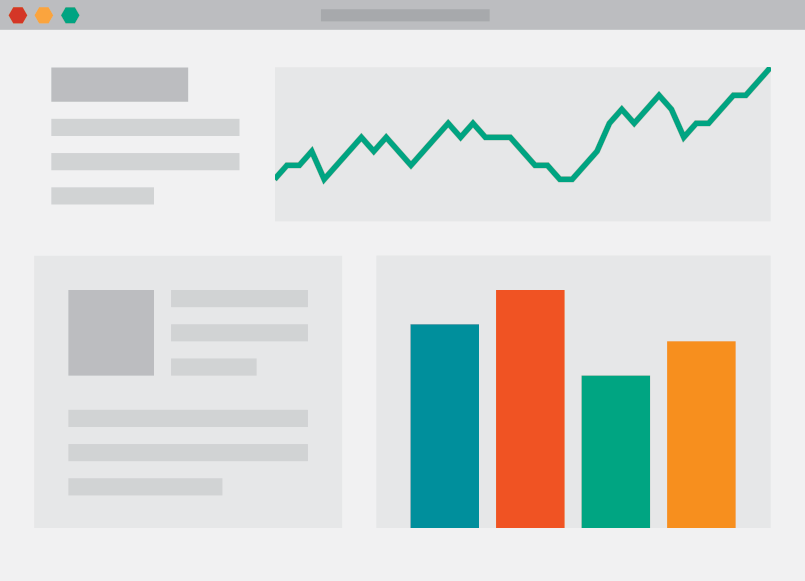
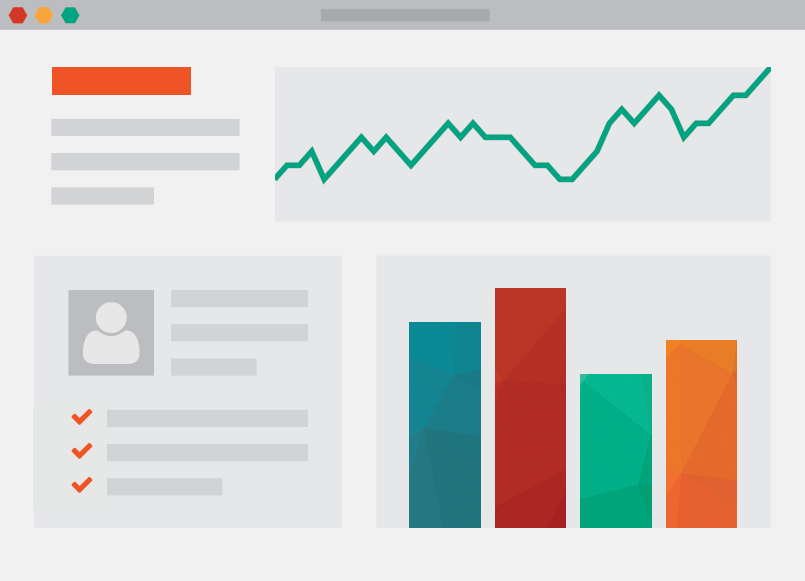
analytics window

diff --git a/app/index.html b/app/index.html
@@ -223,6 +223,8 @@
                         <img class = "window" src = "images/window-analytics.png">
                         <div class = "grey-curtain"></div>
                         <div class = "grey-curtain-2"></div>
+                        <div class = "grey-curtain-3 fade-out"></div>
+
                       </div>
                     </div>
                   </div>
@@ -424,8 +426,6 @@
 <script src="bower_components/bootstrap-sass-official/assets/javascripts/bootstrap/tooltip.js"></script>
 <script src="bower_components/bootstrap-sass-official/assets/javascripts/bootstrap/popover.js"></script>
 <!-- endbower -->
-<script src="scripts/material.js"></script>
-<script src="scripts/ripples.js"></script>
 <!-- endbuild -->
 
 <!-- Google Analytics: change UA-XXXXX-X to be your site's ID. -->
@@ -452,6 +452,8 @@ ga('send', 'pageview');
 <!-- endbuild -->
 
 <!-- build:js({app,.tmp}) scripts/main.js -->
+<script src="scripts/material.js"></script>
+<script src="scripts/ripples.js"></script>
 <script src="scripts/main.js"></script>
 
 <!-- endbuild -->

diff --git a/app/styles/componants/_home.scss b/app/styles/componants/_home.scss
@@ -53,7 +53,7 @@
         opacity: 1.0;
     }
     to {
-        opacity: 0.5;
+        opacity: 0.0;
     }
 }
 
@@ -258,6 +258,15 @@
 }
 }
 
+.grey-curtain-3 {
+    background: #e6e7e8;
+    width: 180px;
+    height: 163px;
+    position: absolute;
+    top: 152px;
+    left: 20px;
+}
+
 .showcase-frame {
     height: 650px;
     width: 1045px;
@@ -322,7 +331,7 @@
 
     .fade-out {
         animation-name: fadeOut;
-        animation-duration: 1.25s;
+        animation-duration: 2s;
         -webkit-animation-fill-mode: forwards;
         animation-timing-function: ease;
     }
@@ -333,6 +342,8 @@
         -webkit-animation-fill-mode: forwards;
         animation-timing-function: ease;
     }
+
+
 
 }
 
